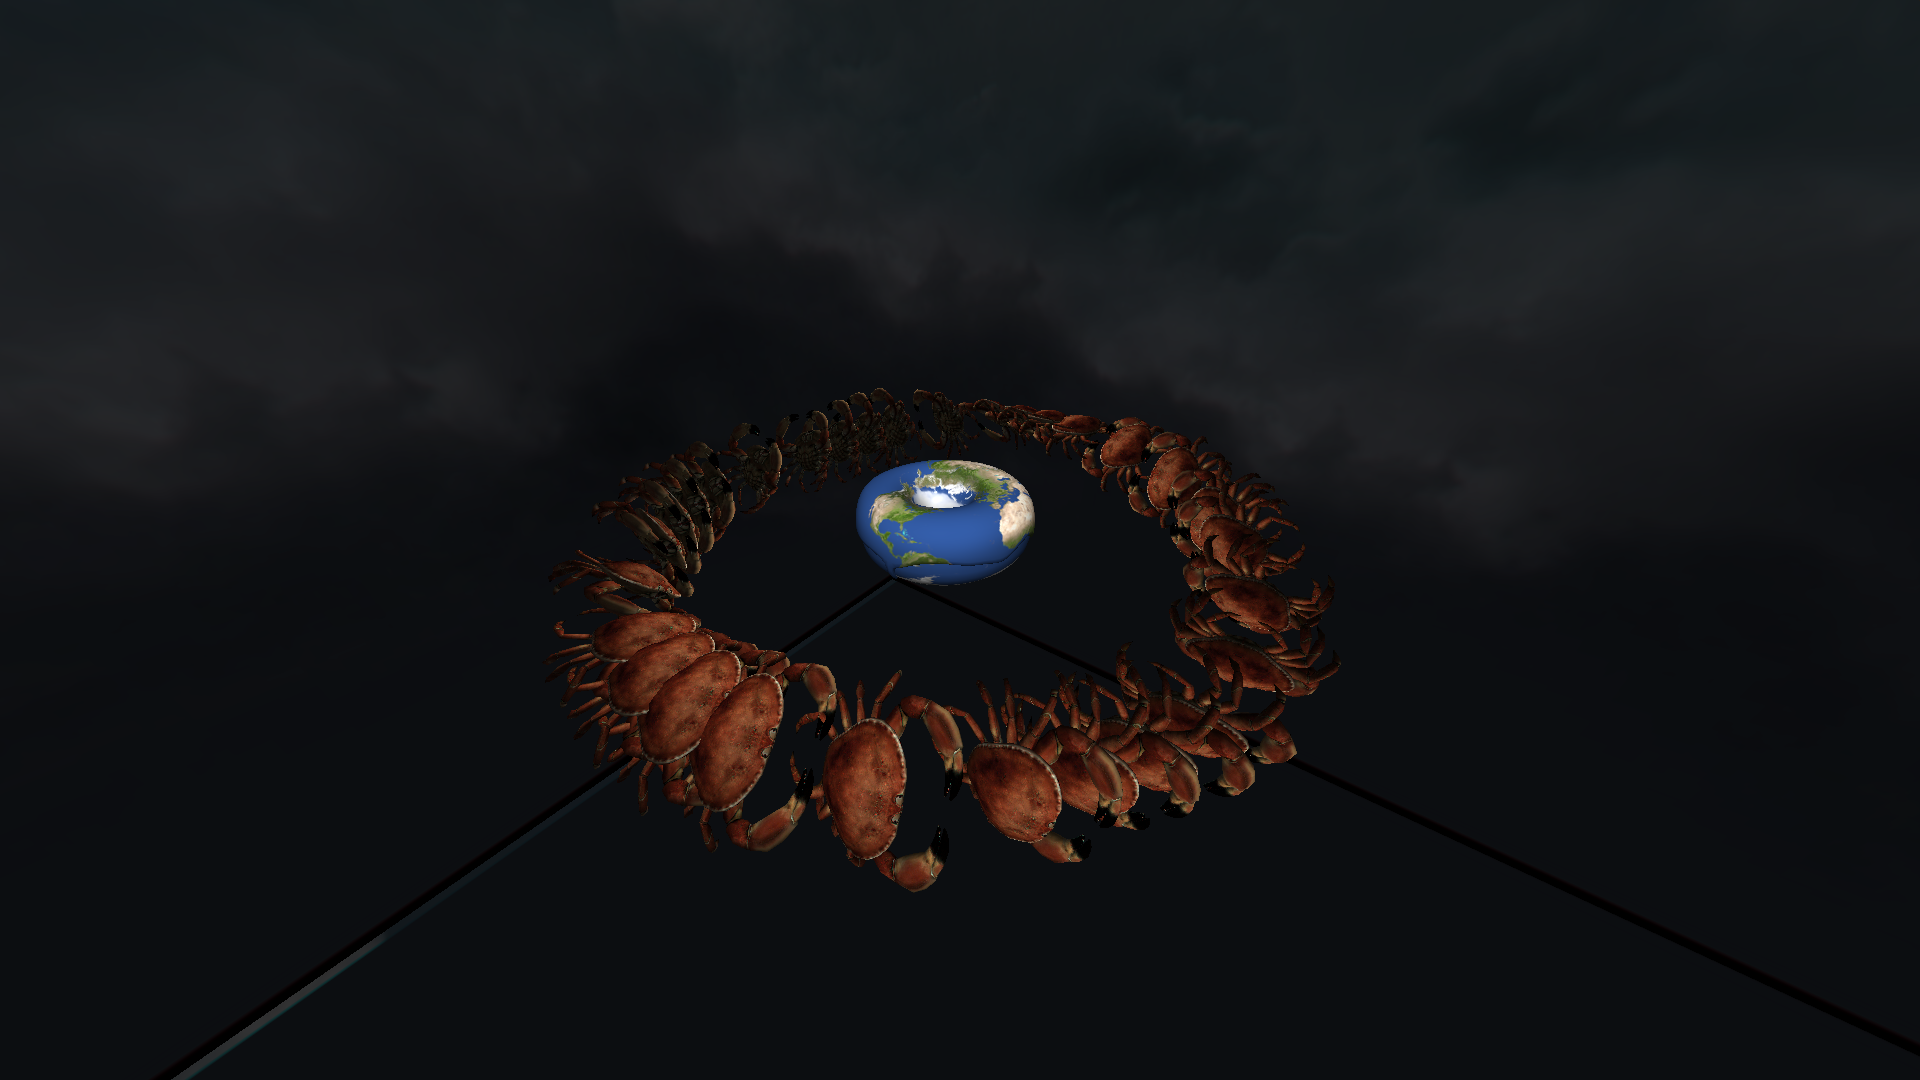
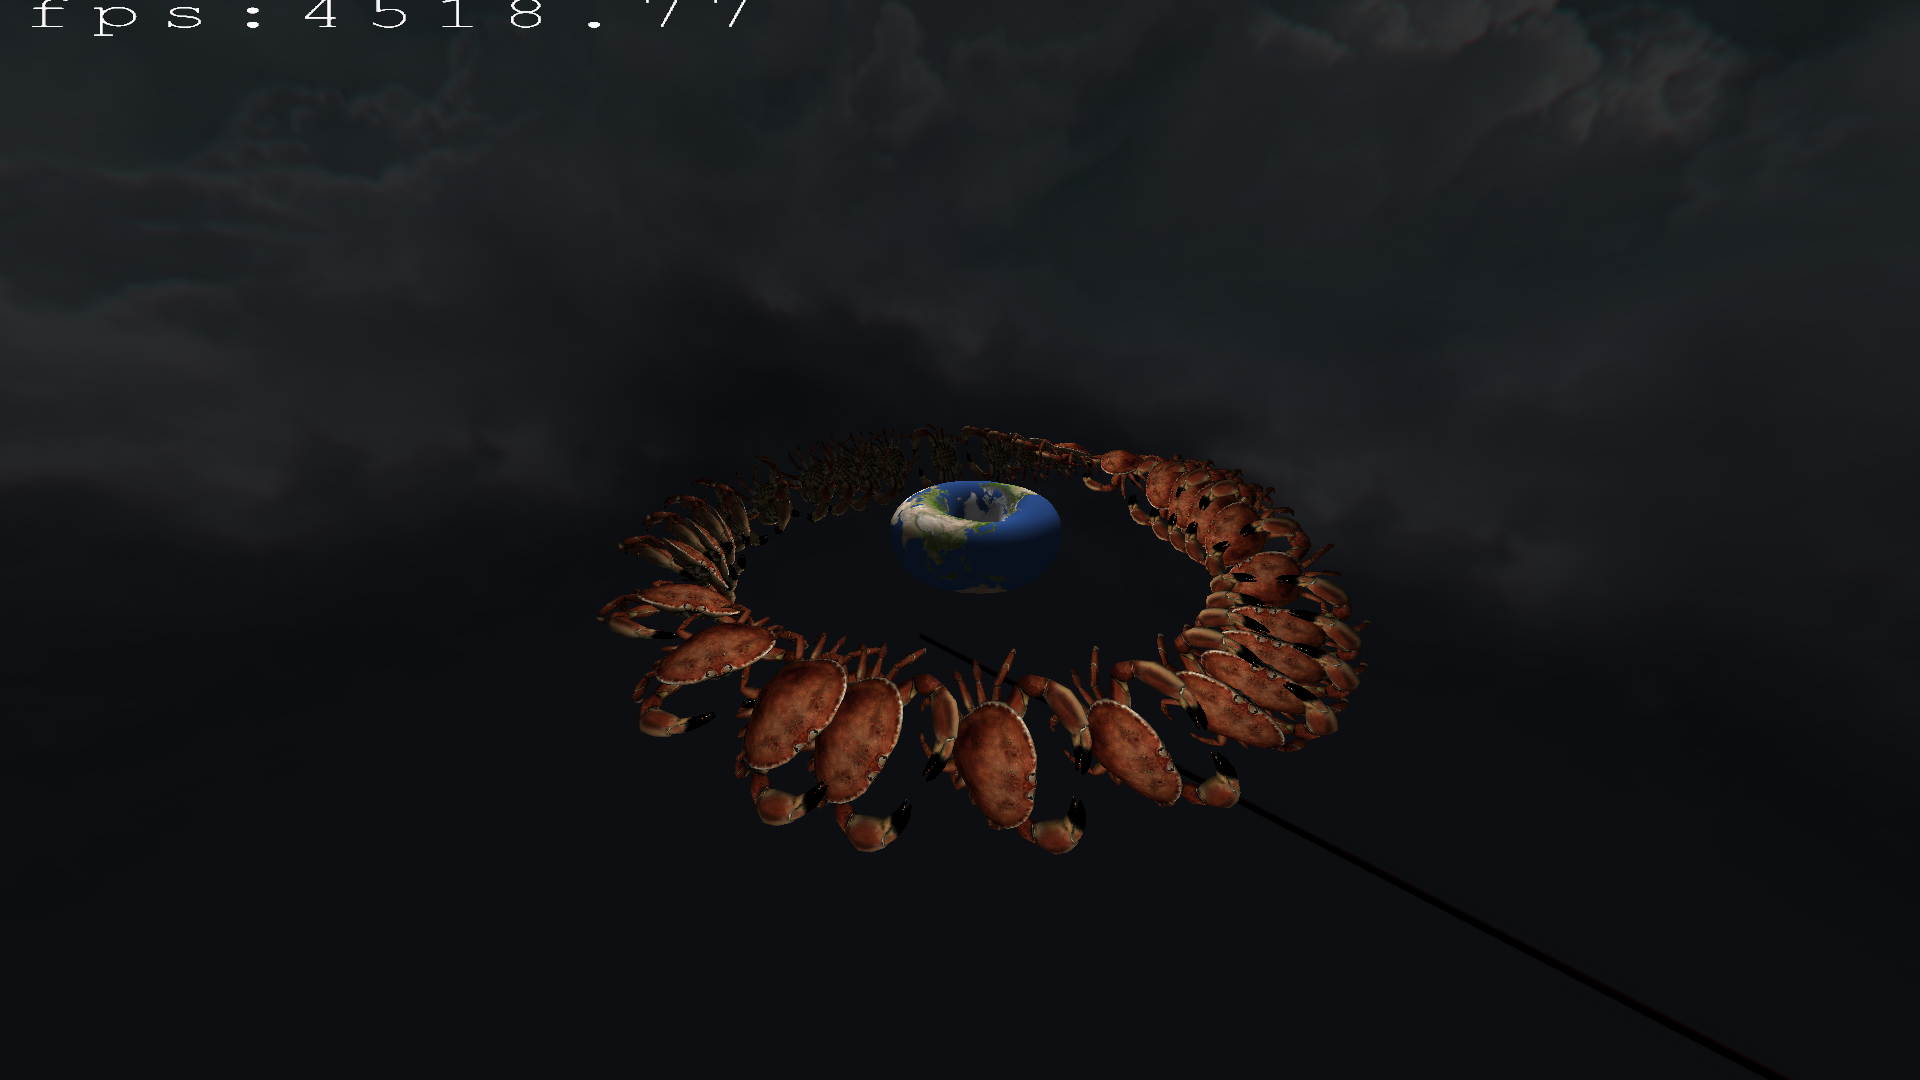
updated readme

diff --git a/README.md b/README.md
@@ -5,8 +5,6 @@ game engine written in zig, this was made from scratch using a glfw window and o
 ![image form the game engine](screenshot.png)
 
 
-warning i dont think i free everthing correctly yet so your gpu memory may start filling.
-
 # project structure
 
 currently the project has 4 main directories:
@@ -16,7 +14,9 @@ currently the project has 4 main directories:
     - `file_loading` : all the file loading code such as bmp and wavefront object files
     - `math` : where the math is like matrixes and vectors
     - `objects` : 3d game objects and a loading service for them
+    - `textures` : texture wrapper and texture loading service
     - `opengl_wrappers` : wrappers for opengl functions
+    - `utils` : where things that dont fit nicely anywhere else
 - `textures` : this is where all the game textures are stored
 - `objects` : where the 3d objects are stored
 - `shaders` : where the glsl shaders are stored
@@ -30,6 +30,7 @@ currently the project has 4 main directories:
 - an object loading service to cache objects that have already been sent to the gpu
 - Blinn–Phong lighting
 - texture rendering
+- rendering text to the screen
 - screenshots
 - coloured printing to the terimal, makes its easier to read matrixs and vectors
 
@@ -53,6 +54,7 @@ currently there are hard coded controls theses are
 |`left_ctrl`| down|
 |`-`| speed increase|
 |`=`| speed decrease|
+|`alt+f4`| stop |
+|special controls| will only get checked every second |
 |`r`| reload shaders|
-|`esc`| stop |
 |`p`| screen shot|
